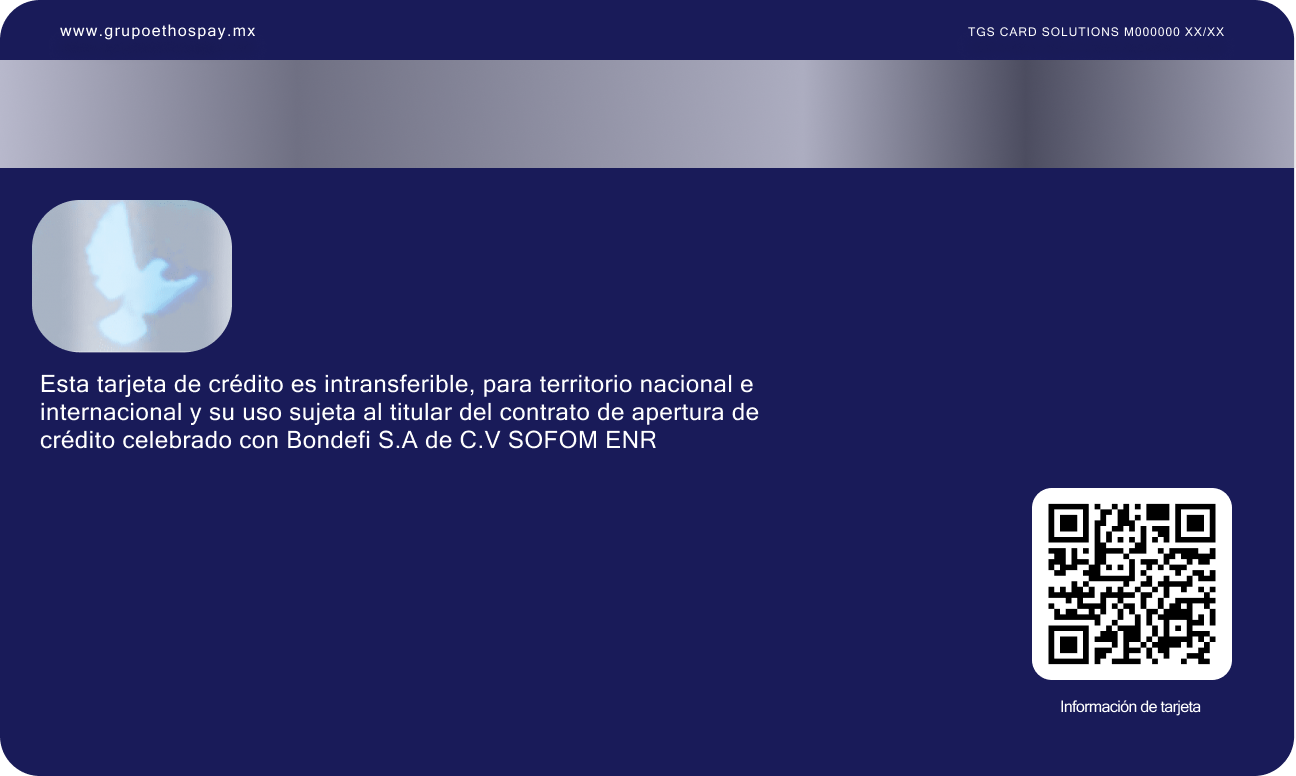
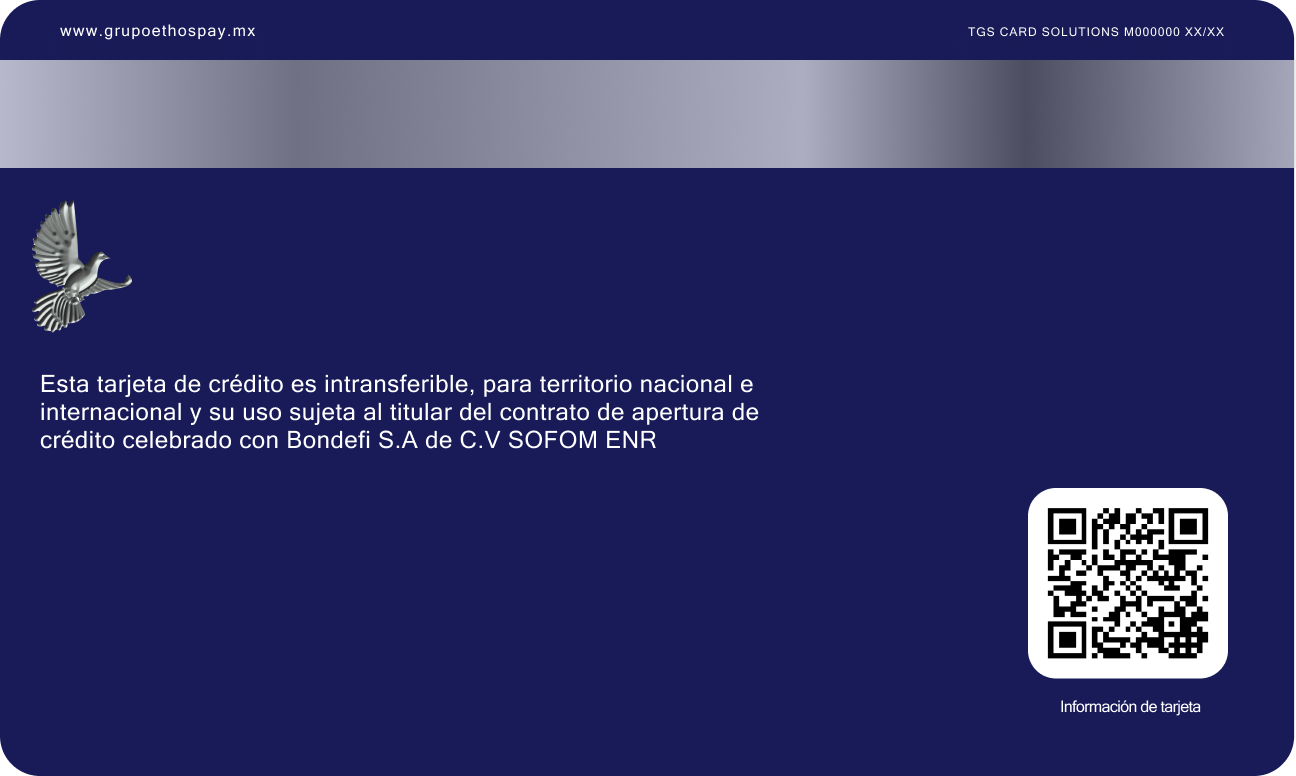
feat: update card selection

Changed region(s): [[0.0, 0.2474, 0.1852, 0.4639], [0.8025, 0.6186, 0.9568, 0.8969]]

diff --git a/src/screens/app/cards/CardSelection/CardSelectionScreen.tsx b/src/screens/app/cards/CardSelection/CardSelectionScreen.tsx
@@ -2,7 +2,7 @@ import React, {
   useCallback, useMemo, useRef, useState,
 } from 'react';
 import {
-  Button, Container, DotIndicator, Header, Text, Touchable,
+  Button, CheckBoxField, Container, DotIndicator, Header, Text, Touchable,
 } from 'components';
 import { useTranslation } from 'react-i18next';
 import Theme from 'theme';
@@ -16,17 +16,17 @@ import { AnimatedCard } from './components';
 const CARD_OPTIONS = [
   {
     id: '1',
-    includesName: true,
     cardCost: 250,
     shippingCost: 0,
     deliveryTime: 10,
+    expressDelivery: false,
   },
   {
     id: '2',
-    includesName: false,
     cardCost: 0,
     shippingCost: 0,
     deliveryTime: 1,
+    expressDelivery: true,
   },
 ];
 
@@ -41,6 +41,7 @@ const CardSelectionScreen: React.FC<Props> = ({ onPressContinue }) => {
 
   const [selectedIndex, setSelectedIndex] = useState<number>(0);
   const [flipCard, setFlipCard] = useState<Array<boolean>>([false, false]);
+  const [includesName, setIncludesName] = useState<boolean>(false);
 
   const selectedCard = useMemo(() => CARD_OPTIONS[selectedIndex], [selectedIndex]);
 
@@ -61,7 +62,7 @@ const CardSelectionScreen: React.FC<Props> = ({ onPressContinue }) => {
       <Header title={t('cards:selectLayout')} backButtonBorderless />
       <Container flex style={{ marginTop: Theme.Sizes.MarginTop }}>
         <Text
-          text={selectedCard.includesName ? t('cards:customBlue') : t('cards:plainBlue')}
+          text={selectedCard.expressDelivery ? t('cards:expressDelivery') : t('cards:standardDelivery')}
           textAlign="center"
           typography="header"
           marginBottom={32}
@@ -74,7 +75,7 @@ const CardSelectionScreen: React.FC<Props> = ({ onPressContinue }) => {
             showsHorizontalScrollIndicator={false}
             contentContainerStyle={{ marginHorizontal: -9, marginBottom: 32, paddingHorizontal: Theme.Sizes.Padding }}
             onScroll={onScroll}
-            renderItem={({ item: { includesName }, index }) => (
+            renderItem={({ item, index }) => (
               <Container onLayout={({ nativeEvent: { layout } }) => { itemWidthRef.current = layout.width; }}>
                 <AnimatedCard flip={flipCard[index]} includesName={includesName} onPressCard={() => onFlipCard(index)} />
               </Container>
@@ -115,6 +116,16 @@ const CardSelectionScreen: React.FC<Props> = ({ onPressContinue }) => {
                 fontWeight="Semibold"
               />
             </Container>
+
+            <CheckBoxField
+              label={t('cards:customized')}
+              position="right"
+              typography="subtitle"
+              fontWeight="Medium"
+              marginVertical={2}
+              selected={includesName}
+              onChange={setIncludesName}
+            />
 
             <Container row style={{ marginTop: 16 }}>
               <Container flex>

diff --git a/src/screens/app/cards/CardSelection/components/AnimatedCard.tsx b/src/screens/app/cards/CardSelection/components/AnimatedCard.tsx
@@ -73,7 +73,7 @@ const styles = StyleSheet.create({
   },
   numberContainer: {
     position: 'absolute',
-    right: 13.5,
+    right: 17.5,
     bottom: 76,
   },
 });
